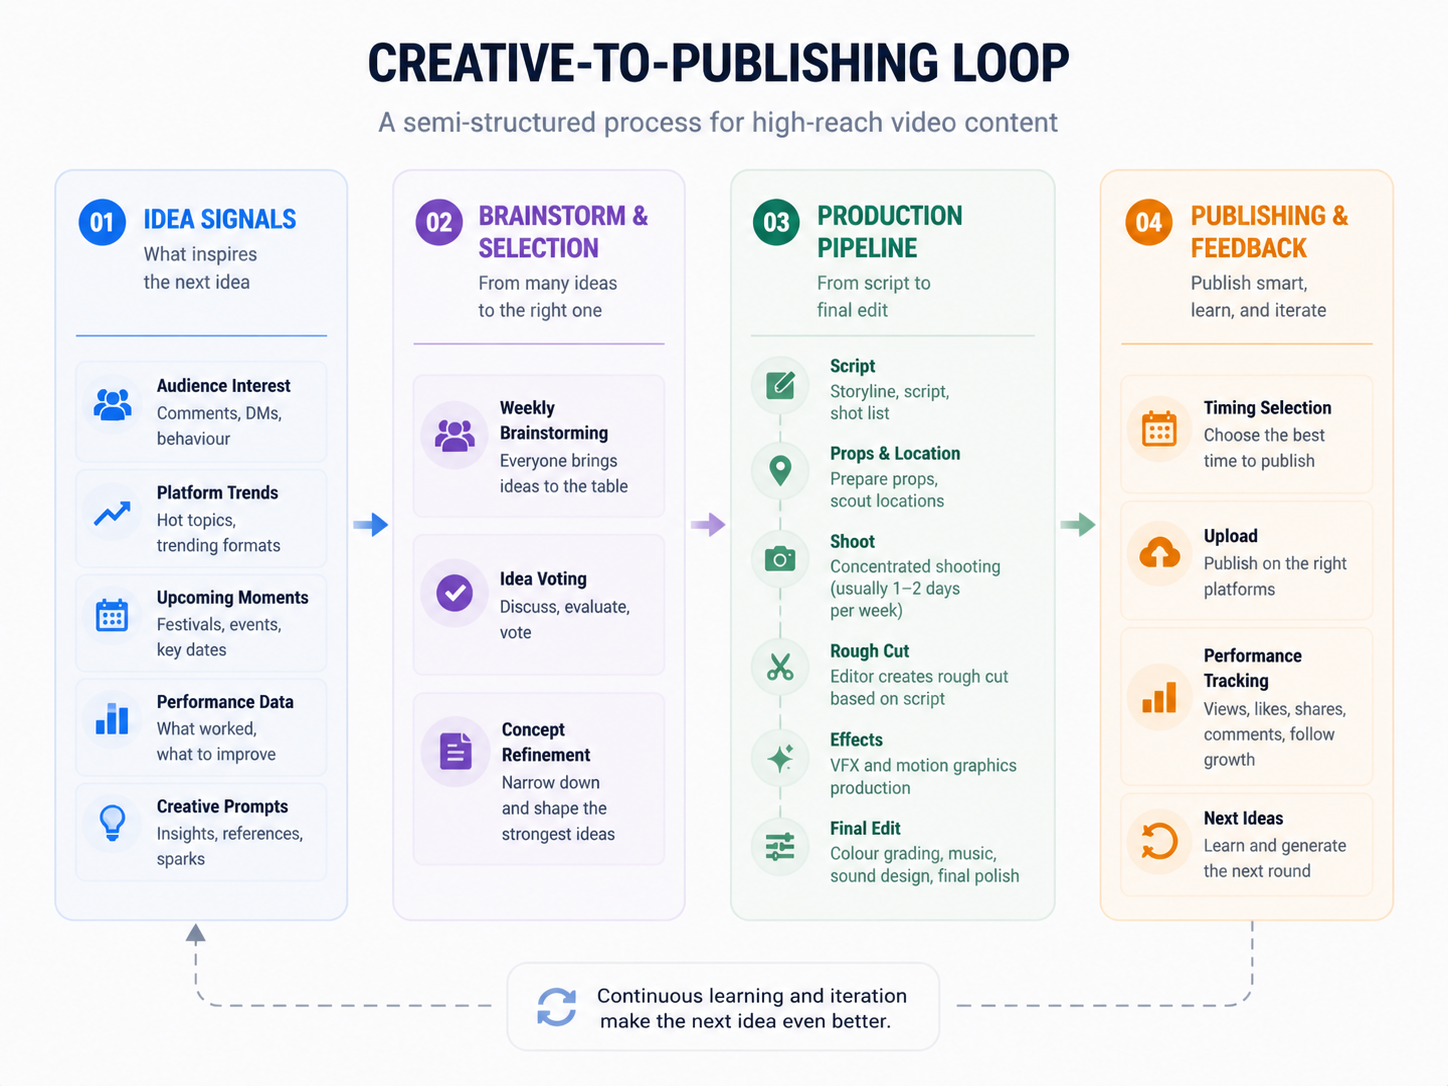
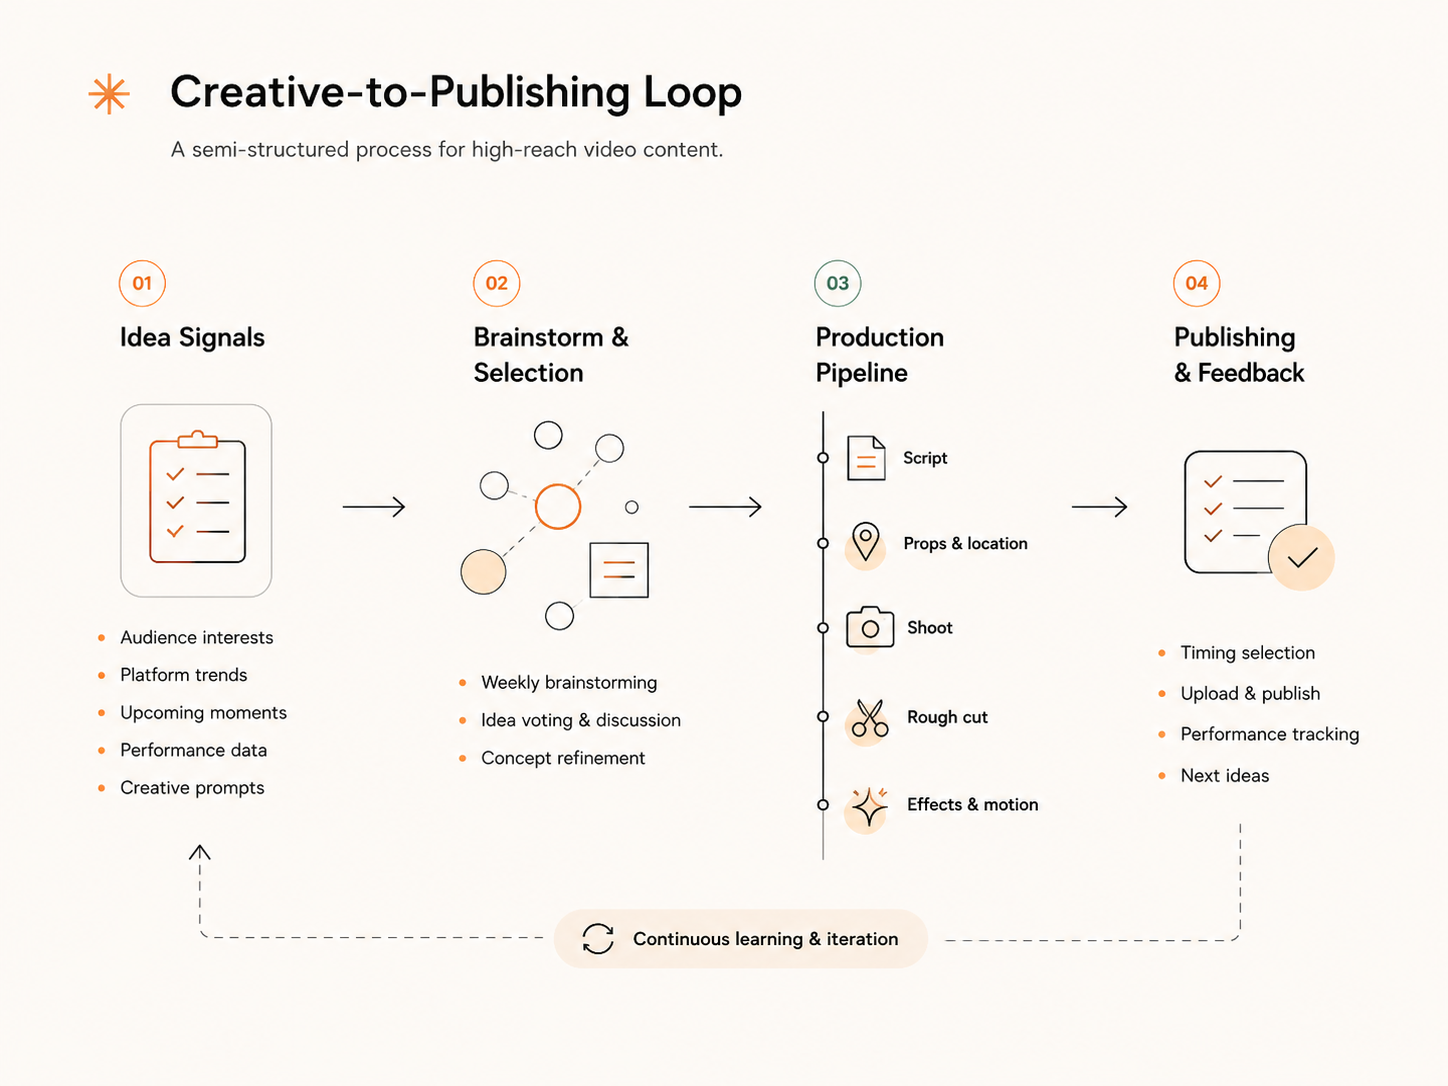
Update replaced screenshots and bump cache-busting versions
Commits replaced creative-publishing-loop.png (Case 4) and
ai-marketing-team-blueprint.png (Case 5). Bumps imageVersion to v4
and v3 respectively so browsers bypass cached versions.

diff --git a/app/cases/ai-marketing-team/page.tsx b/app/cases/ai-marketing-team/page.tsx
@@ -68,7 +68,7 @@ const OUTPUTS = [
     body: "A design logic mapped recurring marketing tasks into agent roles, skills, and a structured workflow.",
     image: "/cases/ai-marketing-team/ai-marketing-team-blueprint.png",
     imagePosition: "center center",
-    imageVersion: "v2",
+    imageVersion: "v3",
     imageFit: "contain" as const,
   },
   {

diff --git a/app/cases/content-at-scale/page.tsx b/app/cases/content-at-scale/page.tsx
@@ -61,7 +61,7 @@ const OUTPUTS = [
     body: "Video ideas moved through a semi-structured loop, from brainstorming and voting to scripting, shooting, editing, effects, publishing, and performance review.",
     image: "/cases/content-at-scale/creative-publishing-loop.png",
     imagePosition: "center center",
-    imageVersion: "v3",
+    imageVersion: "v4",
     imageFit: "contain" as const,
   },
   {